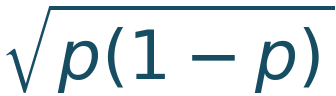
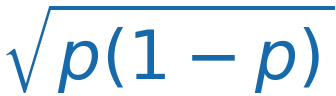
Clarify Q derivations and use sky blue article styling

diff --git a/stats_classroom/article08_expectation/期望方差协方差_手机预览_v3.html b/stats_classroom/article08_expectation/期望方差协方差_手机预览_v3.html
@@ -1,5 +1,5 @@
 <!DOCTYPE html>
-<html lang="zh-CN"><head><meta charset="utf-8"/><meta content="width=device-width,initial-scale=1" name="viewport"/><title>期望、方差、协方差：统计公式是怎样一步步推出来的？</title><style>*{box-sizing:border-box}body{margin:0;background:#f1f4f3;color:#27343a;font-family:-apple-system,BlinkMacSystemFont,"PingFang SC","Microsoft YaHei",sans-serif}main{max-width:720px;margin:24px auto;padding:32px 36px 56px;background:#fff;border-top:5px solid #167d80}.brand{display:flex;align-items:center;gap:12px;color:#167d80;font-size:14px;letter-spacing:.04em}.brand img{width:48px;height:48px;border-radius:50%}h1{font-size:30px;line-height:1.45;color:#142e41;margin:26px 0 20px}h2{font-size:22px;line-height:1.5;color:#163d48;border-left:4px solid #198c8b;padding-left:13px;margin:42px 0 20px}h3{font-size:19px;line-height:1.55;color:#163d48;margin:30px 0 14px}p{font-size:17px;line-height:1.95;margin:19px 0;text-align:justify}strong{color:#15696a;font-weight:650}blockquote{margin:20px 0 30px;padding:10px 18px;background:#f0f7f6;border-left:2px solid #6da6a0}blockquote p{font-size:14px;line-height:1.9;margin:8px 0;color:#53666c}a{color:#167d80;text-decoration:none;border-bottom:1px solid #bbd8d4}code{font-family:ui-monospace,SFMono-Regular,Menlo,monospace;font-size:15px;background:#f2f7f6;color:#15696a;padding:1px 5px;border-radius:4px}pre{background:#f7faf9;border:1px solid #e4ecea;border-radius:6px;padding:12px 14px;overflow-x:auto}pre code{background:none;padding:0;font-size:14px;line-height:1.7}div.formula{background:#f7faf9;border-left:3px solid #6da6a0;padding:12px 16px;margin:20px 0;font-family:ui-monospace,SFMono-Regular,Menlo,monospace;font-size:17px;color:#15696a;text-align:center;line-height:1.9}ul,ol{font-size:17px;line-height:1.95;margin:18px 0;padding-left:26px}li{margin:8px 0}table{width:100%;border-collapse:collapse;margin:24px 0;font-size:15px}th,td{border-bottom:1px solid #e4ecea;padding:9px 10px;text-align:left;line-height:1.7}th{background:#f0f7f6;color:#15696a;font-weight:650}footer{border-top:1px solid #dfe8e6;margin-top:36px;padding-top:16px;font-size:12px;color:#758787;line-height:1.8}@media(max-width:600px){body{background:#fff}main{margin:0;padding:24px 22px 40px;border-top-width:4px}h1{font-size:27px}h2{font-size:21px}h3{font-size:18px}p,ul,ol{font-size:16px;line-height:1.95}table{font-size:14px}}main > p img{display:block;width:100%;height:auto;margin:24px 0 8px;border:1px solid #e4ecea}main > p:has(img){margin:25px -12px 4px}main > p:has(img) a{border:0;display:block}main > p > em:only-child{display:block;font-size:13px;line-height:1.8;font-style:normal;color:#657a7d;text-align:left;margin:0 0 28px}@media(max-width:600px){main > p:has(img){margin-left:-12px;margin-right:-12px}}a{overflow-wrap:anywhere}table{display:block;overflow-x:auto}blockquote p{font-size:16px}hr{border:0;border-top:1px solid #dfe8e6;margin:30px 0}</style></head><body><main><div class="brand"><img alt="账号头像" src="%E6%96%87%E7%AB%A0%E9%85%8D%E5%9B%BE/%E8%B4%A6%E5%8F%B7%E5%A4%B4%E5%83%8F.png"/>明哥的微生物世界 · 统计课堂 08</div><h1>期望、方差、协方差：统计公式是怎样一步步推出来的？</h1><blockquote><p>明哥的微生物世界 · 统计课堂 08</p><p>摘要：从期望、方差、协方差的基本性质出发，逐步推导样本率及两个样本率之差的期望与方差，再解释大样本正态近似和分类统计量 Q 的由来。把公式中省略的步骤补回来，让每一步都有依据。</p></blockquote>
+<html lang="zh-CN"><head><meta charset="utf-8"/><meta content="width=device-width,initial-scale=1" name="viewport"/><title>期望、方差、协方差：统计公式是怎样一步步推出来的？</title><style>*{box-sizing:border-box}body{margin:0;background:#f1f4f3;color:#27343a;font-family:-apple-system,BlinkMacSystemFont,"PingFang SC","Microsoft YaHei",sans-serif}main{max-width:720px;margin:24px auto;padding:32px 36px 56px;background:#fff;border-top:5px solid #258dcc}.brand{display:flex;align-items:center;gap:12px;color:#258dcc;font-size:14px;letter-spacing:.04em}.brand img{width:48px;height:48px;border-radius:50%}h1{font-size:30px;line-height:1.45;color:#142e41;margin:26px 0 20px}h2{font-size:22px;line-height:1.5;color:#1769aa;border-left:4px solid #58b9ed;padding-left:13px;margin:42px 0 20px}h3{font-size:19px;line-height:1.55;color:#1769aa;margin:30px 0 14px}p{font-size:17px;line-height:1.95;margin:19px 0;text-align:justify}strong{color:#1769aa;font-weight:650}blockquote{margin:20px 0 30px;padding:10px 18px;background:#f0f8ff;border-left:2px solid #58b9ed}blockquote p{font-size:14px;line-height:1.9;margin:8px 0;color:#53666c}a{color:#258dcc;text-decoration:none;border-bottom:1px solid #bbd8d4}code{font-family:ui-monospace,SFMono-Regular,Menlo,monospace;font-size:15px;background:#f2f7f6;color:#1769aa;padding:1px 5px;border-radius:4px}pre{background:#f7faf9;border:1px solid #e4ecea;border-radius:6px;padding:12px 14px;overflow-x:auto}pre code{background:none;padding:0;font-size:14px;line-height:1.7}div.formula{background:#f7faf9;border-left:3px solid #58b9ed;padding:12px 16px;margin:20px 0;font-family:ui-monospace,SFMono-Regular,Menlo,monospace;font-size:17px;color:#1769aa;text-align:center;line-height:1.9}ul,ol{font-size:17px;line-height:1.95;margin:18px 0;padding-left:26px}li{margin:8px 0}table{width:100%;border-collapse:collapse;margin:24px 0;font-size:15px}th,td{border-bottom:1px solid #e4ecea;padding:9px 10px;text-align:left;line-height:1.7}th{background:#f0f8ff;color:#1769aa;font-weight:650}footer{border-top:1px solid #dfe8e6;margin-top:36px;padding-top:16px;font-size:12px;color:#758787;line-height:1.8}@media(max-width:600px){body{background:#fff}main{margin:0;padding:24px 22px 40px;border-top-width:4px}h1{font-size:27px}h2{font-size:21px}h3{font-size:18px}p,ul,ol{font-size:16px;line-height:1.95}table{font-size:14px}}main > p img{display:block;width:100%;height:auto;margin:24px 0 8px;border:1px solid #e4ecea}main > p:has(img){margin:25px -12px 4px}main > p:has(img) a{border:0;display:block}main > p > em:only-child{display:block;font-size:13px;line-height:1.8;font-style:normal;color:#657a7d;text-align:left;margin:0 0 28px}@media(max-width:600px){main > p:has(img){margin-left:-12px;margin-right:-12px}}a{overflow-wrap:anywhere}table{display:block;overflow-x:auto}blockquote p{font-size:16px}hr{border:0;border-top:1px solid #dfe8e6;margin:30px 0}</style></head><body><main><div class="brand"><img alt="账号头像" src="%E6%96%87%E7%AB%A0%E9%85%8D%E5%9B%BE/%E8%B4%A6%E5%8F%B7%E5%A4%B4%E5%83%8F.png"/>明哥的微生物世界 · 统计课堂 08</div><h1>期望、方差、协方差：统计公式是怎样一步步推出来的？</h1><blockquote><p>明哥的微生物世界 · 统计课堂 08</p><p>摘要：从期望、方差、协方差的基本性质出发，逐步推导样本率及两个样本率之差的期望与方差，再解释大样本正态近似和分类统计量 Q 的由来。把公式中省略的步骤补回来，让每一步都有依据。</p></blockquote>
 <p>大家好，我是明哥。</p>
 <p>第6次课讲到样本率之差和分类频数的统计量Q时，我有些地方讲得太快了。尤其是从“算出期望和方差”走到“可以用正态分布近似”，中间还有一段重要的道理，没有交代清楚。</p>
 <p>期望、方差和协方差，不仅描述随机变量的数字特征，也帮助我们理解统计量的抽样波动。以答题为例，用1表示答对、0表示答错，样本答对率就是这些0、1变量的平均值。在相同条件下反复抽取同样大小的样本，每次得到的样本率会有所不同；这些可能取值及其概率，构成样本率的抽样分布。在独立同分布、答对概率固定且介于0与1之间的条件下，随着样本量增大，标准化样本率的抽样分布趋近标准正态分布。比较两个独立样本的答对率时，率差的方差等于两个样本率的方差之和。进一步，在类别数固定、给定类别概率均为正的多项抽样模型下，样本量增大时，分类频数构造的Pearson Q统计量为什么具有渐近卡方分布？下面从期望、方差和协方差的基本性质出发，把这些推导逐步展开。</p>
@@ -54,7 +54,7 @@
 <p>把常用性质放在一起，便于后面逐项调用。以下假设所需的期望、方差存在，所有字母系数都是固定常数。</p>
 <blockquote><p><strong>期望的基本性质</strong></p><p><strong>常数：</strong> E(c) = c。</p><p><strong>线性性：</strong> E(ΣaᵢXᵢ+c) = ΣaᵢE(Xᵢ)+c。Σ表示把有限个项加起来；无论变量是否独立，都可以逐项取期望，常数系数原样提出。</p><p><strong>乘积：</strong> E(XY) = E(X)E(Y)+Cov(X,Y)。当协方差为0时，才可简化为两个期望的乘积；独立是保证这一点的充分条件。</p><p><strong>二阶矩：</strong> E(X²) = Var(X)+[E(X)]²。</p></blockquote>
 <blockquote><p><strong>方差的基本性质</strong></p><p><strong>常用计算公式：</strong> Var(X) = E(X²)−[E(X)]²。</p><p><strong>常数、平移与缩放：</strong> Var(c) = 0；Var(aX+c) = a²Var(X)。平移不改变波动，缩放后方差乘以系数的平方。</p><p><strong>两个变量：</strong> Var(aX+bY) = a²Var(X)+b²Var(Y)+2abCov(X,Y)。把b设为−1，就得到差值方差中的负协方差项。</p><p><strong>一般线性组合：</strong> 设S = a₁X₁+⋯+aₘXₘ，m是变量个数，aᵢ是固定系数，则：</p><p>Var(S) = Σᵢ₌₁ᵐ aᵢ²Var(Xᵢ) + 2Σᵢ＜ⱼ aᵢaⱼCov(Xᵢ,Xⱼ)。</p><p><strong>第一部分怎么加？</strong> 每个变量贡献一项“系数平方×自身方差”，共m项。</p><p><strong>第二部分怎么加？</strong> i＜j表示从这m个变量中，每次选两个不同变量，每对只写一次，共m(m−1)/2对。先将这两个变量的系数相乘，再乘它们的协方差，最后把所有配对项相加并乘2。</p><p><strong>为什么乘2？</strong> 展开[S−E(S)]²时，每一对交叉乘积会出现两次。例如X₁的偏差乘X₂的偏差，以及X₂的偏差乘X₁的偏差；两项相等，合并得到系数2。取期望后，偏差乘积就变成协方差。</p><p><strong>用三个变量展开看：</strong></p><p>Var(aX+bY+cZ) = a²Var(X)+b²Var(Y)+c²Var(Z)</p><p>+2abCov(X,Y)+2acCov(X,Z)+2bcCov(Y,Z)。</p><p>三对分别是(X,Y)、(X,Z)、(Y,Z)，没有遗漏，也没有重复。比如Var(X+Y−Z)中的三项协方差依次为+2Cov(X,Y)、−2Cov(X,Z)、−2Cov(Y,Z)；正负号由系数的乘积决定。</p><p><strong>什么时候只加方差？</strong> 当所有不同变量两两不相关时，协方差项全部为0，剩下Σaᵢ²Var(Xᵢ)。相互独立足以保证这一点；一般公式本身不要求独立，也不要求正态分布。</p></blockquote>
-<blockquote><p><strong>协方差的基本性质</strong></p><p><strong>对称性：</strong> Cov(X,Y) = Cov(Y,X)。</p><p><strong>自身与常数：</strong> Cov(X,X) = Var(X)；Cov(X,c) = 0。</p><p><strong>平移与缩放：</strong> Cov(aX+c,bY+d) = abCov(X,Y)。常数平移不影响协方差，两个位置上的系数分别提出。</p><p><strong>每一边都可以相加展开：</strong> Cov(X+Y,Z) = Cov(X,Z)+Cov(Y,Z)；Cov(X,U+V) = Cov(X,U)+Cov(X,V)。相减时保留对应负号，无须假设独立。</p><p><strong>双线性：两边同时展开。</strong> 第一个位置的每一项，都要与第二个位置的每一项配对：</p><p>Cov(aX+bY,cU+dV)</p><p>= acCov(X,U)+adCov(X,V)</p><p>+bcCov(Y,U)+bdCov(Y,V)。</p><p>左边有两项、右边有两项，因此得到2×2 = 4项。这里是“左边每项与右边每项配对”，不是前面方差公式中“不同变量每对只取一次”，所以不额外乘2。</p><p><strong>例如：</strong> Cov(X−Y,U+V) = Cov(X,U)+Cov(X,V)−Cov(Y,U)−Cov(Y,V)。后面分类计数的比较量，就按这条性质逐项展开。</p><p><strong>一般形式：</strong> Cov(ΣᵢaᵢXᵢ,ΣⱼbⱼYⱼ) = ΣᵢΣⱼaᵢbⱼCov(Xᵢ,Yⱼ)。两个求和号表示：第一个组合中的每项，都与第二个组合中的每项配对。两边包含同一个变量时，仍须保留Cov(X,X) = Var(X)。</p><p><strong>与独立性的关系：</strong> 独立可以推出协方差为0，协方差为0通常不能反推独立。</p></blockquote>
+<blockquote><p><strong>协方差的基本性质</strong></p><p><strong>定义与常用计算公式：</strong> Cov(X,Y) = E[(X−E(X))(Y−E(Y))] = E(XY)−E(X)E(Y)。先计算乘积XY的期望，再减去两个期望的乘积；两种写法等价。</p><p><strong>对称性：</strong> Cov(X,Y) = Cov(Y,X)。</p><p><strong>自身与常数：</strong> Cov(X,X) = Var(X)；Cov(X,c) = 0。</p><p><strong>平移与缩放：</strong> Cov(aX+c,bY+d) = abCov(X,Y)。常数平移不影响协方差，两个位置上的系数分别提出。</p><p><strong>每一边都可以相加展开：</strong> Cov(X+Y,Z) = Cov(X,Z)+Cov(Y,Z)；Cov(X,U+V) = Cov(X,U)+Cov(X,V)。相减时保留对应负号，无须假设独立。</p><p><strong>双线性：两边同时展开。</strong> 第一个位置的每一项，都要与第二个位置的每一项配对：</p><p>Cov(aX+bY,cU+dV)</p><p>= acCov(X,U)+adCov(X,V)</p><p>+bcCov(Y,U)+bdCov(Y,V)。</p><p>左边有两项、右边有两项，因此得到2×2 = 4项。这里是“左边每项与右边每项配对”，不是前面方差公式中“不同变量每对只取一次”，所以不额外乘2。</p><p><strong>例如：</strong> Cov(X−Y,U+V) = Cov(X,U)+Cov(X,V)−Cov(Y,U)−Cov(Y,V)。后面分类计数的比较量，就按这条性质逐项展开。</p><p><strong>一般形式：</strong> Cov(ΣᵢaᵢXᵢ,ΣⱼbⱼYⱼ) = ΣᵢΣⱼaᵢbⱼCov(Xᵢ,Yⱼ)。两个求和号表示：第一个组合中的每项，都与第二个组合中的每项配对。两边包含同一个变量时，仍须保留Cov(X,X) = Var(X)。</p><p><strong>与独立性的关系：</strong> 独立可以推出协方差为0，协方差为0通常不能反推独立。</p></blockquote>
 <p>“不相关不等于独立”也可以看一个小例子：X以相同概率取−1、0、1，Y = X²。因为E(X) = E(X³) = 0，所以Cov(X,Y) = 0；但知道X，就完全知道Y，二者显然不是独立的。</p>
 <p>基础定义与性质可查阅CMU概率讲义：<a href="https://www.cs.cmu.edu/~mgormley/courses/ml-primer/probability.html" rel="noopener" target="_blank">https://www.cs.cmu.edu/~mgormley/courses/ml-primer/probability.html</a></p>
 <h2>四、样本率的精确分布：先数人数，再除以总人数</h2>
@@ -89,13 +89,13 @@
 <p>本文N(均值,方差)的第二个参数是方差，不是标准差。</p>
 <p>这里要分清三个对象：一个人的结果仍然只有0或1；有限n时，样本率仍是离散的；趋近标准正态的是<strong>减去p、除以标准误后的样本率</strong>。未经标准化的p̂会越来越集中到p附近，不会趋近一个方差固定不变的正态分布。</p>
 <p>大数定律说明“样本率逐渐稳定在p附近”；中心极限定理进一步说明“适当放大后的误差呈现什么分布”。正态近似来自后者，不能只凭E(p̂)和Var(p̂)写出来。</p>
-<h3>“大”到什么程度，不能只看n</h3>
+<h3>（一）“大”到什么程度，不能只看n</h3>
 <p>通常同时检查np与n(1−p)，也就是模型预期的答对人数和答错人数。教材常用两者至少达到5或10作为经验检查，这些数不是普遍精确的分界线。</p>
 <p>同样n = 100：p = 0.5时，预期50人答对、50人答错；p = 0.01时，却只有1人答对。后者的分布仍然明显偏斜。只记“n超过30就正态”，很容易用错。</p>
 <p>图2把这两种情况画出来：先在固定p时比较样本量的影响，再在相同样本量下比较不同p。重点看蓝色精确概率与橙色近似概率能否贴合。</p>
 <p><img alt="样本率的精确分布与正态近似" src="%E6%96%87%E7%AB%A0%E9%85%8D%E5%9B%BE/v2_02_%E6%A0%B7%E6%9C%AC%E7%8E%87%E4%B8%8E%E6%AD%A3%E6%80%81%E8%BF%91%E4%BC%BC.png"/></p>
 <p><em>图2｜四个教学模型的精确二项概率（蓝色）与正态分布在对应小区间内的概率（橙色）。对取值x/n，橙线计算从(x−0.5)/n到(x+0.5)/n的正态概率，因此与蓝色比较的都是概率，不是把概率与密度直接叠在一起。上排固定p = 0.1，比较n = 10和100；下排固定n = 100，比较稀有事件p = 0.01与p = 0.5。图中横轴范围不同，用于看清各自分布。正态近似还可能分配少量概率到合理范围之外。</em></p>
-<h3>课堂的小样本例子：n = 10、p = 0.1</h3>
+<h3>（二）课堂的小样本例子：n = 10、p = 0.1</h3>
 <p>总体答对概率为0.1，抽10个人，求样本率至少0.3的概率，即至少3个人答对的概率：</p>
 <blockquote><p>P(p̂ ≥ 0.3) = P(X ≥ 3)</p><p>= Σ从x=3到10 C(10,x)0.1ˣ0.9¹⁰⁻ˣ</p><p><strong>≈ 0.070191。</strong></p></blockquote>
 <p>这时E(p̂) = 0.1，Var(p̂) = 0.009，SE(p̂) ≈ 0.094868。如果用具有这两个参数的正态变量Y来近似，会怎样？</p>
@@ -124,7 +124,7 @@
 <p>接着问课堂中的问题：<strong>总体率差为0.1时，抽样得到的率差至少0.2，有多大概率？</strong></p>
 <blockquote><p>P(D ≥ 0.2)</p><p>= Σ满足x₁/40−x₂/50≥0.2的组合 P(X₁=x₁)P(X₂=x₂)</p><p><strong>≈ 0.144336，即14.43%。</strong></p></blockquote>
 <p>这是给定p₁ = 0.3、p₂ = 0.2模型下的抽样概率；它不是检验“两总体率相等”的P值，因为这里设定的总体率本来就不相等。</p>
-<h3>先补一个桥梁：正态分布的可加性</h3>
+<h3>（一）先补一个桥梁：正态分布的可加性</h3>
 <p>如果X、Y相互独立，且X ∼ N(μ₁,σ₁²)、Y ∼ N(μ₂,σ₂²)，那么它们的线性组合仍是正态：</p>
 <blockquote><p><strong>aX+bY+c ∼ N(aμ₁+bμ₂+c, a²σ₁²+b²σ₂²)。</strong></p></blockquote>
 <p>这里系数是常数，且组合的方差大于0。若方差为0，结果就是一个常数。特别地：</p>
@@ -132,7 +132,7 @@
 <p>减法就是取b = −1，方差中的b²仍为1。因此“可加性”也涵盖了独立正态变量的差。</p>
 <p>这里其实有两条结论：<strong>期望、方差怎样算</strong>，来自前面的运算性质；<strong>算完以后仍是正态分布</strong>，来自正态分布的特殊性质。比如独立的两个0、1变量相加，均值、方差也可以相加，但和只能取0、1、2，显然不会精确服从正态分布。</p>
 <p>如果X、Y相关，只知道它们各自为正态还不够保证线性组合正态。若进一步知道它们<strong>联合正态</strong>，线性组合仍为正态，但方差必须保留2abCov(X,Y)。本篇两独立组满足的是前面更直接的条件。</p>
-<h3>再走到率差的正态近似</h3>
+<h3>（二）再走到率差的正态近似</h3>
 <p>各组样本率在适当条件下近似正态，两组又独立，因此它们的差可以近似正态。严格的大样本表述，可令两个样本量同时增大、保持适当的比例，各组总体概率固定在0与1之间。</p>
 <p>本例检查四个期望计数：12、28、10、40。它们支持尝试正态近似，近似是否足够好，还可与精确结果对照。</p>
 <blockquote><p><strong>D 近似服从 N(0.1, 0.00845)。</strong></p><p><img alt="Z = [D−(p₁−p₂)] / √[p₁(1−p₁)/n₁+p₂(1−p₂)/n₂]" src="文章配图/公式_v3/92bc09c503c6ccad.png" style="display:inline-block;width:149.00px;max-width:100%;height:auto;vertical-align:middle;margin:5px 3px;"/></p><p>近似服从N(0,1)。</p></blockquote>
@@ -147,18 +147,20 @@
 <p>图3左侧展示整个率差分布，右侧单独比较上表的尾概率。看整体形状，再看具体事件的概率误差，才能判断这种近似对当前问题是否合适。</p>
 <p><img alt="率差的精确概率与正态近似" src="%E6%96%87%E7%AB%A0%E9%85%8D%E5%9B%BE/v2_03_%E7%8E%87%E5%B7%AE%E7%B2%BE%E7%A1%AE%E5%88%86%E5%B8%83.png"/></p>
 <p><em>图3｜左图为两独立二项样本产生的率差精确分布，以及正态分布在宽0.005的小区间内的概率；右图对比“率差至少0.2”的三种计算结果。所有概率均为理论计算，未使用随机模拟。</em></p>
-<h3>总体p未知时，标准误怎么办？</h3>
+<h3>（三）总体p未知时，标准误怎么办？</h3>
 <p>上述例子给定p，适合看清抽样分布。实际资料通常只知道样本率，可用p̂代入估计标准误：</p>
 <blockquote><p>单组：估计SE = <img alt="√[p̂(1−p̂)/n]" src="文章配图/公式_v3/5b2ffd135210f195.png" style="display:inline-block;width:71.00px;max-width:100%;height:auto;vertical-align:middle;margin:5px 3px;"/>；</p><p>独立两组：估计SE = <img alt="√[p̂₁(1−p̂₁)/n₁+p̂₂(1−p̂₂)/n₂]" src="文章配图/公式_v3/f0818c4f309ddeda.png" style="display:inline-block;width:165.00px;max-width:100%;height:auto;vertical-align:middle;margin:5px 3px;"/>。</p></blockquote>
 <p>这是常用的代入估计，不会自动让小样本变得可靠。例如样本里没有一次事件，p̂ = 0，上式给出0，不表示真实总体概率已经毫无不确定性。检验“两总体率相等”时，还可能使用零假设下的合并率；不能把估计标准误与某一种检验公式混为一谈。</p>
 <h2>八、从样本率走到Q：同一个标准化误差的平方</h2>
 <p>前面推到的Z，恰好能接上课堂的二分类Q。把n个人分为答对、答错两类，观察频数是X与n−X，期望频数是np与n(1−p)。Pearson统计量为：</p>
 <blockquote><p>Q = (X−np)²/(np) + [(n−X)−n(1−p)]²/[n(1−p)]。</p></blockquote>
-<p>第二项的偏差恰好是第一项的相反数。合并后：</p>
-<blockquote><p>Q = (X−np)²{1/(np)+1/[n(1−p)]}</p><p>= (X−np)²/[np(1−p)]</p><p><strong>= Z² = (p̂−p)²/[p(1−p)/n]。</strong></p></blockquote>
+<p>先看清两类各自的偏差。X是第一类的观察人数，np是它的期望人数，所以第一类的偏差为X−np。第二类有n−X人，期望人数为n(1−p)，它的偏差逐步展开为：</p>
+<blockquote><p>(n−X)−n(1−p)</p><p>= n−X−n+np</p><p>= np−X = −(X−np)。</p></blockquote>
+<p>例如第一类比期望多10人，总人数固定，第二类就比期望少10人。两类偏差分别为10和−10，平方后都为100。因此，Q的两个分子都可以写成(X−np)²，再把这个共同因子提出：</p>
+<blockquote><p>Q = (X−np)²{1/(np)+1/[n(1−p)]}</p><p>= (X−np)² × [(1−p)+p]/[np(1−p)]</p><p>= (X−np)²/[np(1−p)]</p><p><strong>= Z² = (p̂−p)²/[p(1−p)/n]。</strong></p></blockquote>
 <p>Q = Z²是精确代数关系；Z近似标准正态，才使Q近似χ²(1)。两个层次要分开。</p>
 <p>课堂里的公平硬币例子：n = 100、p = 0.5，观察到60次正面、40次反面。此时Z = (60−50)/5 = 2，Q = 2² = 4；直接按两类算，Q = 10²/50+(−10)²/50 = 4，结果相同。</p>
-<h3>再补一个桥梁：卡方分布的可加性</h3>
+<h3>（一）再补一个桥梁：卡方分布的可加性</h3>
 <p>卡方分布可以从独立标准正态变量的平方和来理解。若Z₁,…,Zᵣ相互独立，且各自服从N(0,1)，那么：</p>
 <blockquote><p><strong>Z₁²+⋯+Zᵣ² ∼ χ²(r)。</strong></p></blockquote>
 <p>每一项Zᵢ²都服从χ²(1)。r个独立的这样的项相加，就得到自由度为r的卡方分布。</p>
@@ -178,12 +180,12 @@
 <blockquote><p><strong>Q = 1.8+0.2+0.2+1.8 = 4。</strong></p></blockquote>
 <p>一般记号中，Oj表示第j个类别的观察人数，mj表示该类的期望人数，因此Q = Σ (Oj−mj)²/mj。Σ表示把所有类别的项加起来，mj使用不同于期望算子E的记号。</p>
 <p>平方使正负偏差都成为非负的贡献。至于为什么除以期望人数20，先放到下一小节；这里先把“四个选项的人数之间有什么关系”讲清楚。</p>
-<h3>先分清：人的回答独立，还是四个选项的人数独立？</h3>
+<h3>（一）先分清：人的回答独立，还是四个选项的人数独立？</h3>
 <p>用O₁、O₂、O₃、O₄依次记录选A、B、C、D的人数。这四个数始终满足：</p>
 <blockquote><p><strong>O₁+O₂+O₃+O₄ = 80。</strong></p></blockquote>
 <p>知道前三个选项的人数，第四个就确定了。因此，四个选项的人数不是四个相互独立的随机变量。</p>
 <p>“独立抽取80个人”说的是不同人的回答相互独立；“四类人数”是把这同一批人的回答汇总得到的四个数。<strong>观察对象之间的独立性，不会让汇总出来的四类人数也独立。</strong></p>
-<h3>第一步：只看一个人，记录他是否选A、是否选B</h3>
+<h3>（二）第一步：只看一个人，记录他是否选A、是否选B</h3>
 <p>定义两个0、1变量：X记录“这个人是否选A”，选A记1，否则记0；Y记录“这个人是否选B”，选B记1，否则记0。</p>
 <table><thead><tr><th>这个人实际选择</th><th>X：是否选A</th><th>Y：是否选B</th></tr></thead><tbody><tr><td>A</td><td>1</td><td>0</td></tr><tr><td>B</td><td>0</td><td>1</td></tr><tr><td>C或D</td><td>0</td><td>0</td></tr></tbody></table>
 <p><strong>X和Y记录的是同一个人的选择。</strong> 由于只能单选，X和Y不可能同时等于1；逐行看上表，无论他选哪个选项，XY都等于0。</p>
@@ -191,7 +193,7 @@
 <p>把这三个结果代入协方差的计算公式：</p>
 <blockquote><p>Cov(X,Y) = E(XY)−E(X)E(Y)</p><p>= 0−pₐpᵦ</p><p><strong>= −pₐpᵦ。</strong></p></blockquote>
 <p>本例pₐ = pᵦ = 0.25，因此同一个人“是否选A”和“是否选B”的协方差为−0.0625。负号来自这两种选择的互斥关系。</p>
-<h3>第二步：把80个人的记录加起来，得到选A、选B的总人数</h3>
+<h3>（三）第二步：把80个人的记录加起来，得到选A、选B的总人数</h3>
 <p>对第i个人，用Xᵢ记录他是否选A，用Yᵢ记录他是否选B。这里的下标i表示“第几个人”，不是“第几个选项”。</p>
 <blockquote><p>选A的总人数：O₁ = X₁+X₂+⋯+X₈₀。</p><p>选B的总人数：O₂ = Y₁+Y₂+⋯+Y₈₀。</p></blockquote>
 <p>按照前面介绍的协方差双线性性质，算Cov(O₁,O₂)时，要让左边的每个X与右边的每个Y配对，共有80 × 80个配对项。</p>
@@ -200,23 +202,23 @@
 <p>所以，所有项相加后，只留下80个同一个人的配对项：</p>
 <blockquote><p>Cov(O₁,O₂) = 80 × (−pₐpᵦ)</p><p><strong>= −80 × 0.25 × 0.25 = −5。</strong></p></blockquote>
 <p>这就解释了：80个人可以独立作答，而汇总后的选A人数与选B人数仍有负协方差。这里的−5是协方差，不是相关系数，也不表示选A每增加1人，选B就必定减少5人。</p>
-<h3>每个选项的人数，其期望与方差怎么算？</h3>
+<h3>（四）每个选项的人数，其期望与方差怎么算？</h3>
 <p>以选A人数O₁为例，它是80个独立的0、1变量之和。每个Xᵢ的期望为pₐ，方差为pₐ(1−pₐ)。按期望的线性性和独立变量方差相加的性质：</p>
 <blockquote><p><strong>E(O₁) = 80pₐ = 20。</strong></p><p><strong>Var(O₁) = 80pₐ(1−pₐ) = 15。</strong></p></blockquote>
 <p>选B、C、D的计算相同：每类人数的期望为20、方差为15；任意两个不同选项的人数，协方差都为−5。</p>
 <p>将人数80改记为n，将四个选项依次编号为1、2、3、4，再用j、ℓ代表其中任意两个不同类别，就得到一般公式。这里的pj是选择第j类的概率：</p>
 <blockquote><p><strong>E(Oj) = npj；Var(Oj) = npj(1−pj)。</strong></p><p><strong>Cov(Oj,Oℓ) = −npjpℓ，j ≠ ℓ。</strong></p></blockquote>
-<h3>最后检查：四类人数相加，为什么完全没有波动？</h3>
+<h3>（五）最后检查：四类人数相加，为什么完全没有波动？</h3>
 <p>四个选项的人数各自会随抽样变化，但总人数始终为80，方差应当为0。用已经算出的方差和协方差检查一次：</p>
 <p>四类之间共有六对：A与B、A与C、A与D、B与C、B与D、C与D。每对的协方差都为−5，因此六项合计为−30。</p>
 <blockquote><p>Var(O₁+O₂+O₃+O₄)</p><p>= 四个方差之和 + 2 × 六个协方差之和</p><p>= 4 × 15 + 2 × (−30)</p><p><strong>= 60−60 = 0。</strong></p></blockquote>
 <p>这里乘2，正是前面平方展开时每个交叉乘积出现两次的结果。四类人数各自有抽样波动，它们之间的负协方差使总人数保持不变。理解这一点，下一步才能看清为什么计算Q时要把四个类别作为一个整体。</p>
-<h3>Q的分母为什么是期望频数，而不是每类的方差？</h3>
+<h3>（六）Q的分母为什么是期望频数，而不是每类的方差？</h3>
 <p>刚才二分类的推导解释了：Q的两项合起来，分母中的(1−p)才出现。四分类也需要整体理解。</p>
 <p>回到四类，也不能把每一项都当作一个独立标准正态变量的平方。令rj = <img alt="(Oj−npj)/√(npj)" src="文章配图/公式_v3/16ff255332a3d4f4.png" style="display:inline-block;width:47.00px;max-width:100%;height:auto;vertical-align:middle;margin:5px 3px;"/>，则：</p>
 <blockquote><p>Var(rj) = 1−pj，而不是1；</p><p>Cov(rj,rℓ) = <img alt="−√(pjpℓ)" src="文章配图/公式_v3/3068fa2e6e301cb9.png" style="display:inline-block;width:61.00px;max-width:100%;height:auto;vertical-align:middle;margin:5px 3px;"/>，而不是0。</p></blockquote>
 <p>本例各项方差为0.75，任意两项协方差为−0.25。若分别除以每类自己的方差15再相加，得到的是(4/3)Q，已经不是原来的Pearson Q，不能仍然拿同一个χ²(3)分布作参照。</p>
-<h3>四分类为什么能走到χ²(3)？把三个方向写出来</h3>
+<h3>（七）四分类为什么能走到χ²(3)？把三个方向写出来</h3>
 <p>只说“总和固定，所以少一个自由度”还不够：它解释了少一个方向，却没说明剩下三个方向为什么具有合适的尺度。</p>
 <p>对于课堂的四类等概率模型，可以直接构造三个比较：</p>
 <blockquote><p><img alt="Z₁ = (O₁−O₂)/√40" src="文章配图/公式_v3/ce7d38d7144c7b95.png" style="display:inline-block;width:88.00px;max-width:100%;height:auto;vertical-align:middle;margin:5px 3px;"/>；</p><p><img alt="Z₂ = (O₃−O₄)/√40" src="文章配图/公式_v3/c89a1e546ed9b081.png" style="display:inline-block;width:88.00px;max-width:100%;height:auto;vertical-align:middle;margin:5px 3px;"/>；</p><p><img alt="Z₃ = (O₁+O₂−O₃−O₄)/√80" src="文章配图/公式_v3/11f7e88e5c5afdc7.png" style="display:inline-block;width:147.00px;max-width:100%;height:auto;vertical-align:middle;margin:5px 3px;"/>。</p></blockquote>
@@ -227,9 +229,23 @@
 <p>再检查共同波动，例如：</p>
 <blockquote><p>Cov(O₁−O₂, O₃−O₄)</p><p>= Cov(O₁,O₃)−Cov(O₁,O₄)</p><p>−Cov(O₂,O₃)+Cov(O₂,O₄)</p><p>= −5+5+5−5 = 0。</p></blockquote>
 <p>用同样的逐项展开方法，也能得到另外两对协方差为0。此时我们有了三个<strong>均值为0、方差为1、两两不相关</strong>的比较量。</p>
-<p>这个平方和关系也能展开看。令dj = Oj−20，则d₁+d₂+d₃+d₄ = 0。于是：</p>
-<blockquote><p>Z₁²+Z₂² = [(d₁−d₂)²+(d₃−d₄)²]/40；</p><p>Z₃² = [(d₁+d₂)²+(d₃+d₄)²]/40。</p></blockquote>
-<p>把两式相加，利用(a−b)²+(a+b)² = 2a²+2b²，得到Σdj²/20，也就是Q。因此，在总数为80时：</p>
+<p>下面把“Q等于三个Z的平方和”逐步展开。先给每个选项的偏差取一个简短名字。四类的期望人数都是20，因此定义：</p>
+<blockquote><p>d₁ = O₁−20：选A的观察人数减去期望人数；</p><p>d₂ = O₂−20：选B的观察人数减去期望人数；</p><p>d₃ = O₃−20：选C的观察人数减去期望人数；</p><p>d₄ = O₄−20：选D的观察人数减去期望人数。</p></blockquote>
+<p>本例四个偏差依次为−6、−2、2、6。因为四类观察人数的总和为80，四类期望人数的总和也为80，所以：</p>
+<blockquote><p>d₁+d₂+d₃+d₄ = 80−80 = 0。</p><p>因而d₃+d₄ = −(d₁+d₂)。</p></blockquote>
+<p><strong>先改写前两个Z。</strong> O₁−O₂ = (d₁+20)−(d₂+20) = d₁−d₂；同理O₃−O₄ = d₃−d₄。所以：</p>
+<blockquote><p>Z₁² = (d₁−d₂)²/40；</p><p>Z₂² = (d₃−d₄)²/40。</p></blockquote>
+<p><strong>再改写第三个Z。</strong> 它的分子O₁+O₂−O₃−O₄中，四个20互相抵消，留下(d₁+d₂)−(d₃+d₄)。由于后两项之和是前两项之和的相反数，分子就等于2(d₁+d₂)：</p>
+<blockquote><p>Z₃² = [2(d₁+d₂)]²/80</p><p>= (d₁+d₂)²/20。</p></blockquote>
+<p>又因为(d₃+d₄)² = (d₁+d₂)²，我们可以把上式平均拆成两份，以便与前两个Z配对：</p>
+<blockquote><p>Z₃² = (d₁+d₂)²/40 + (d₃+d₄)²/40。</p></blockquote>
+<p><strong>最后，把三个平方相加，按前两类、后两类分别归在一起：</strong></p>
+<blockquote><p>Z₁²+Z₂²+Z₃²</p><p>= [(d₁−d₂)²+(d₁+d₂)²]/40</p><p>+ [(d₃−d₄)²+(d₃+d₄)²]/40。</p></blockquote>
+<p>先展开第一行的分子，就能看到交叉项如何抵消：</p>
+<blockquote><p>(d₁−d₂)² = d₁²−2d₁d₂+d₂²；</p><p>(d₁+d₂)² = d₁²+2d₁d₂+d₂²。</p></blockquote>
+<p>两式相加，−2d₁d₂与+2d₁d₂抵消，剩下2d₁²+2d₂²。第二行同理得到2d₃²+2d₄²。因此：</p>
+<blockquote><p>Z₁²+Z₂²+Z₃²</p><p>= [2d₁²+2d₂²+2d₃²+2d₄²]/40</p><p>= (d₁²+d₂²+d₃²+d₄²)/20。</p></blockquote>
+<p>右边就是“四类的平方偏差分别除以期望人数20，再相加”，正是Q的定义。于是：</p>
 <blockquote><p><strong>Q = Z₁²+Z₂²+Z₃²。</strong></p></blockquote>
 <p>代入14、18、22、26，三个平方分别为0.4、0.4、3.2，加起来仍然等于4。</p>
 <p><strong>这里还差最后一个条件：不相关本身不等于独立。</strong> 当样本量增大、四个类别概率固定且均为0.25时，多项分布的中心极限定理使这三个标准化比较量联合趋近正态；上面的分母也相应写成<img alt="√(n/2)" src="文章配图/公式_v3/e11f6ffbb0a73bb8.png" style="display:inline-block;width:43.00px;max-width:100%;height:auto;vertical-align:middle;margin:5px 3px;"/>、<img alt="√(n/2)" src="文章配图/公式_v3/e11f6ffbb0a73bb8.png" style="display:inline-block;width:43.00px;max-width:100%;height:auto;vertical-align:middle;margin:5px 3px;"/>、<img alt="√n" src="文章配图/公式_v3/5dd7664af404a64a.png" style="display:inline-block;width:26.00px;max-width:100%;height:auto;vertical-align:middle;margin:5px 3px;"/>。极限中协方差为0的联合正态分量相互独立，才得到三个独立标准正态的平方和。</p>

diff --git a/stats_classroom/article08_expectation/代码/plot_expectation_variance_covariance.py b/stats_classroom/article08_expectation/代码/plot_expectation_variance_covariance.py
@@ -13,7 +13,7 @@ def make_plots(root, curve, pmf, results):
     plt.rcParams.update({'font.family':font,'axes.unicode_minus':False,'font.size':12,
                          'axes.spines.top':False,'axes.spines.right':False,
                          'savefig.facecolor':'white'})
-    blue,orange = '#277E91','#D67D38'
+    blue,orange = '#56b4e9','#D67D38'
     dest=root/'文章配图'
     fig,axes=plt.subplots(2,2,figsize=(11,8.5),layout='constrained')
     for ax, name in zip(axes.ravel(), ['small','larger','rare','balanced']):
@@ -64,7 +64,7 @@ def make_reference_plots(root, q_sim, z):
     rho = np.linspace(-1,1,201)
     variance = 2-2*rho
     fig,ax=plt.subplots(figsize=(9,5.3),layout='constrained')
-    ax.plot(rho,variance,color='#19837b',lw=2.5)
+    ax.plot(rho,variance,color='#56b4e9',lw=2.5)
     ax.scatter([0,.8],[2,.4],color='#bb6a38',s=45,zorder=3)
     ax.annotate('不相关：差的方差为2',(0,2),xytext=(-.4,3.0),bbox={'facecolor':'#fbfaf6','edgecolor':'none','pad':3},arrowprops={'arrowstyle':'->'})
     ax.annotate('正相关：共同波动在差中抵消',(.8,.4),xytext=(-.2,.9),arrowprops={'arrowstyle':'->'})
@@ -72,11 +72,11 @@ def make_reference_plots(root, q_sim, z):
     fig.savefig(folder/'01_协方差与差值.png',dpi=180)
     pd.DataFrame({'rho':rho,'variance_of_difference':variance}).to_csv(folder/'01_curve.csv',index=False)
     fig,axes=plt.subplots(2,1,figsize=(9,8),layout='constrained')
-    axes[0].bar([r'$Z_1^2$',r'$Z_2^2$',r'$Z_3^2$'],z**2,color=['#19837b','#5264a7','#bb6a38'])
+    axes[0].bar([r'$Z_1^2$',r'$Z_2^2$',r'$Z_3^2$'],z**2,color=['#56b4e9','#5264a7','#bb6a38'])
     for i,value in enumerate(z**2):axes[0].text(i,value+.07,f'{value:.1f}',ha='center')
     axes[0].set(ylabel='该方向的平方',ylim=(0,3.8),title='三个比较方向：0.4 + 0.4 + 3.2 = Q = 4')
     x=np.linspace(.001,20,501)
-    axes[1].hist(q_sim,bins=np.arange(0,np.ceil(q_sim.max())+1,.5),density=True,color='#a7cdc7',label='多项模型模拟（20,000次）')
+    axes[1].hist(q_sim,bins=np.arange(0,np.ceil(q_sim.max())+1,.5),density=True,color='#aedcf5',label='多项模型模拟（20,000次）')
     axes[1].plot(x,chi2.pdf(x,3),color='#5264a7',lw=2,label='χ²(3) 理论密度')
     axes[1].set(xlabel='Pearson Q',ylabel='密度',xlim=(0,20),title='零假设：n = 80，四类概率各0.25')
     axes[1].legend(fontsize=11)

diff --git a/stats_classroom/article08_expectation/修订说明_v3.md b/stats_classroom/article08_expectation/修订说明_v3.md
@@ -29,3 +29,6 @@ MATLAB也已重新运行通过；三语言21项理论指标按名称对齐核对
 
 
 四分类例子改用A/B/C/D单选题解释：区分同一人的两个指示变量与不同人的独立回答；逐项说明80个同人配对及80×79个跨人配对，推导人数协方差−5，再列出六个类别配对，核对总人数方差为0。原教学计数与模型概率不变。
+
+
+按读者反馈改用天蓝强调色；小节加中文序号；协方差性质框加入定义及E(XY)−E(X)E(Y)；二分类Q给出相反偏差的展开和通分步骤；四分类先定义d₁至d₄，再按各项展开平方。
